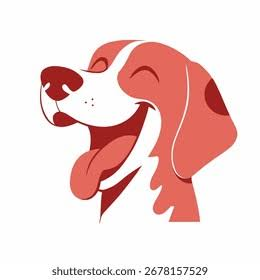
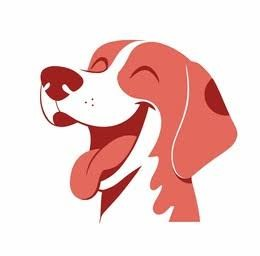
v4 border addition

Changed region(s): [[0.1538, 0.125, 0.9231, 0.875], [0.1846, 0.9375, 0.5231, 1.0], [0.5538, 0.9375, 0.8, 1.0]]

diff --git a/style.css b/style.css
@@ -11,7 +11,7 @@ body {
     margin: 0; /* Elimina los márgenes predeterminados */
     font-family: Arial, Helvetica, sans-serif; /* Define la tipografía */
     color: #333333; /* Establece el color principal del texto */
-    background-color: #f4f6f7; /* Define un fondo claro */
+    background-color: #e4d2b6; /* Define un fondo claro */
 }
 
 
@@ -62,12 +62,14 @@ body {
 
 .featured-img {
     display: block; /* Permite centrar la imagen */
-    width: 100%; /* Ocupa el ancho disponible */
+    width: 50%; /* Ocupa el ancho disponible */
     max-width: 350px; /* Limita el ancho máximo */
     height: 220px; /* Define la altura */
     object-fit: contain; /* Muestra el perro completo */
-    border-radius: 12px; /* Redondea las esquinas */
+    border-radius: 50%; /* Redondea las esquinas */
     margin: 20px auto; /* Centra la imagen */
+    border: 3px solid #156346;
+
 }
 
 
